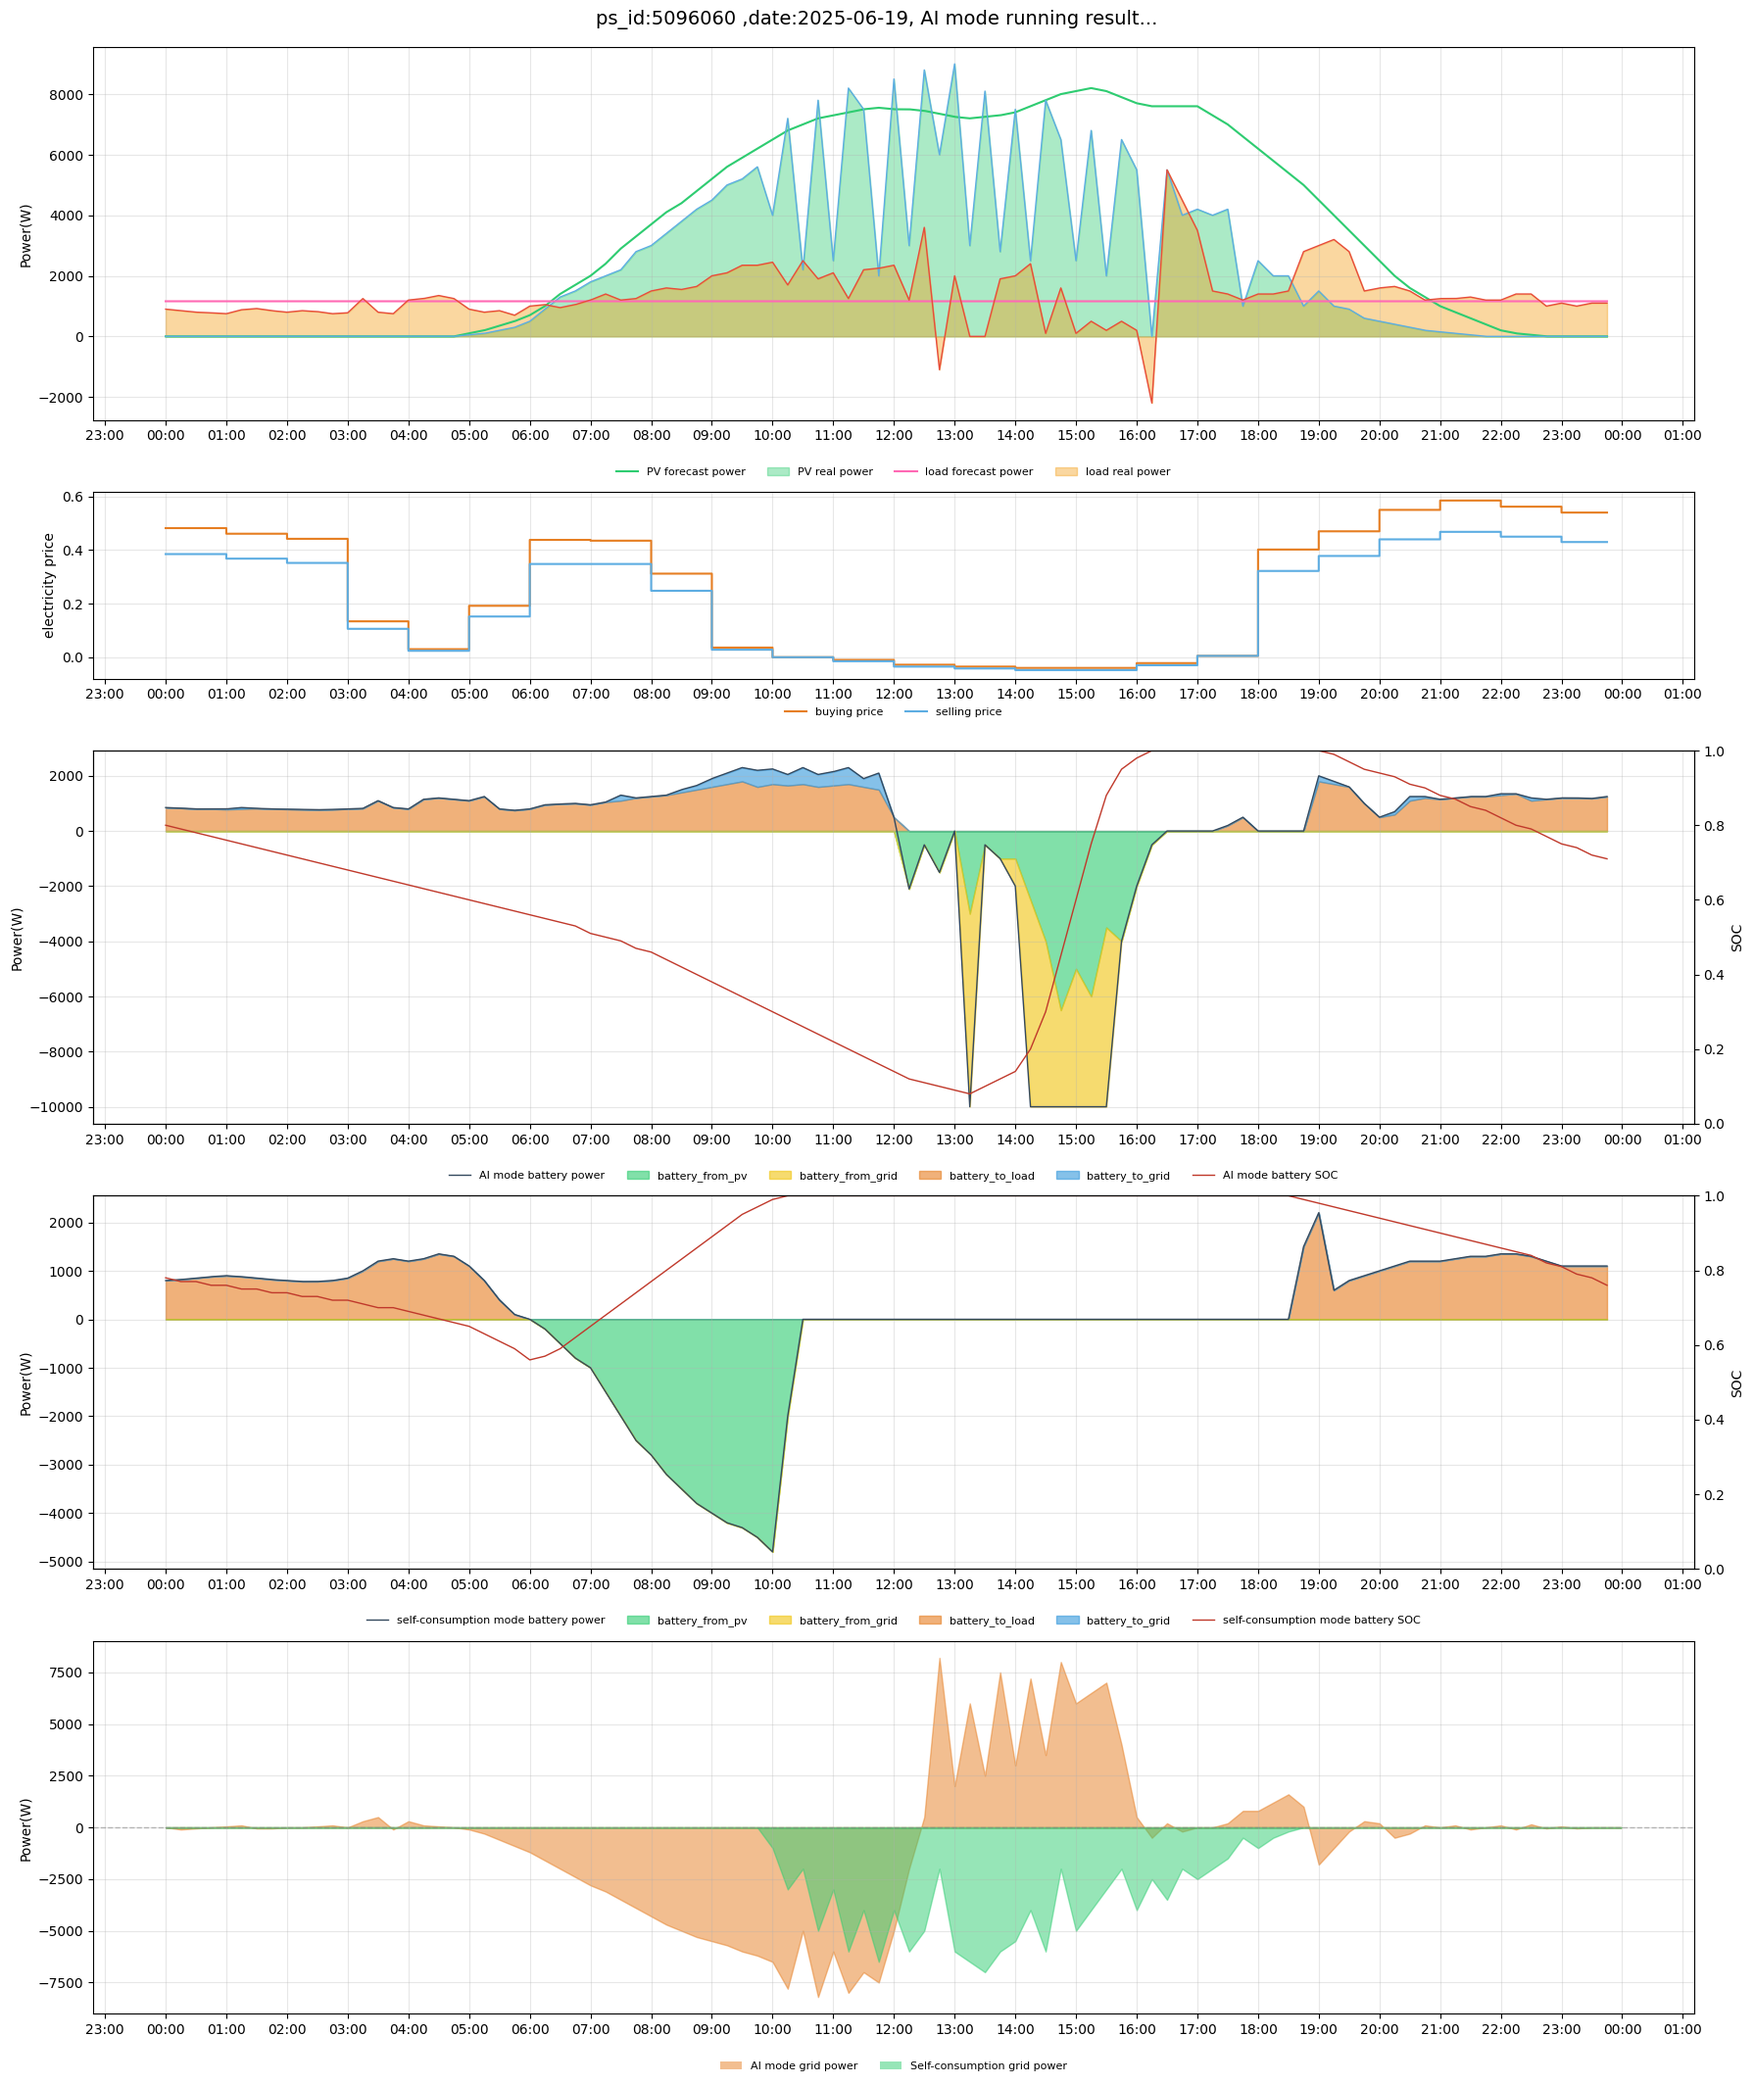
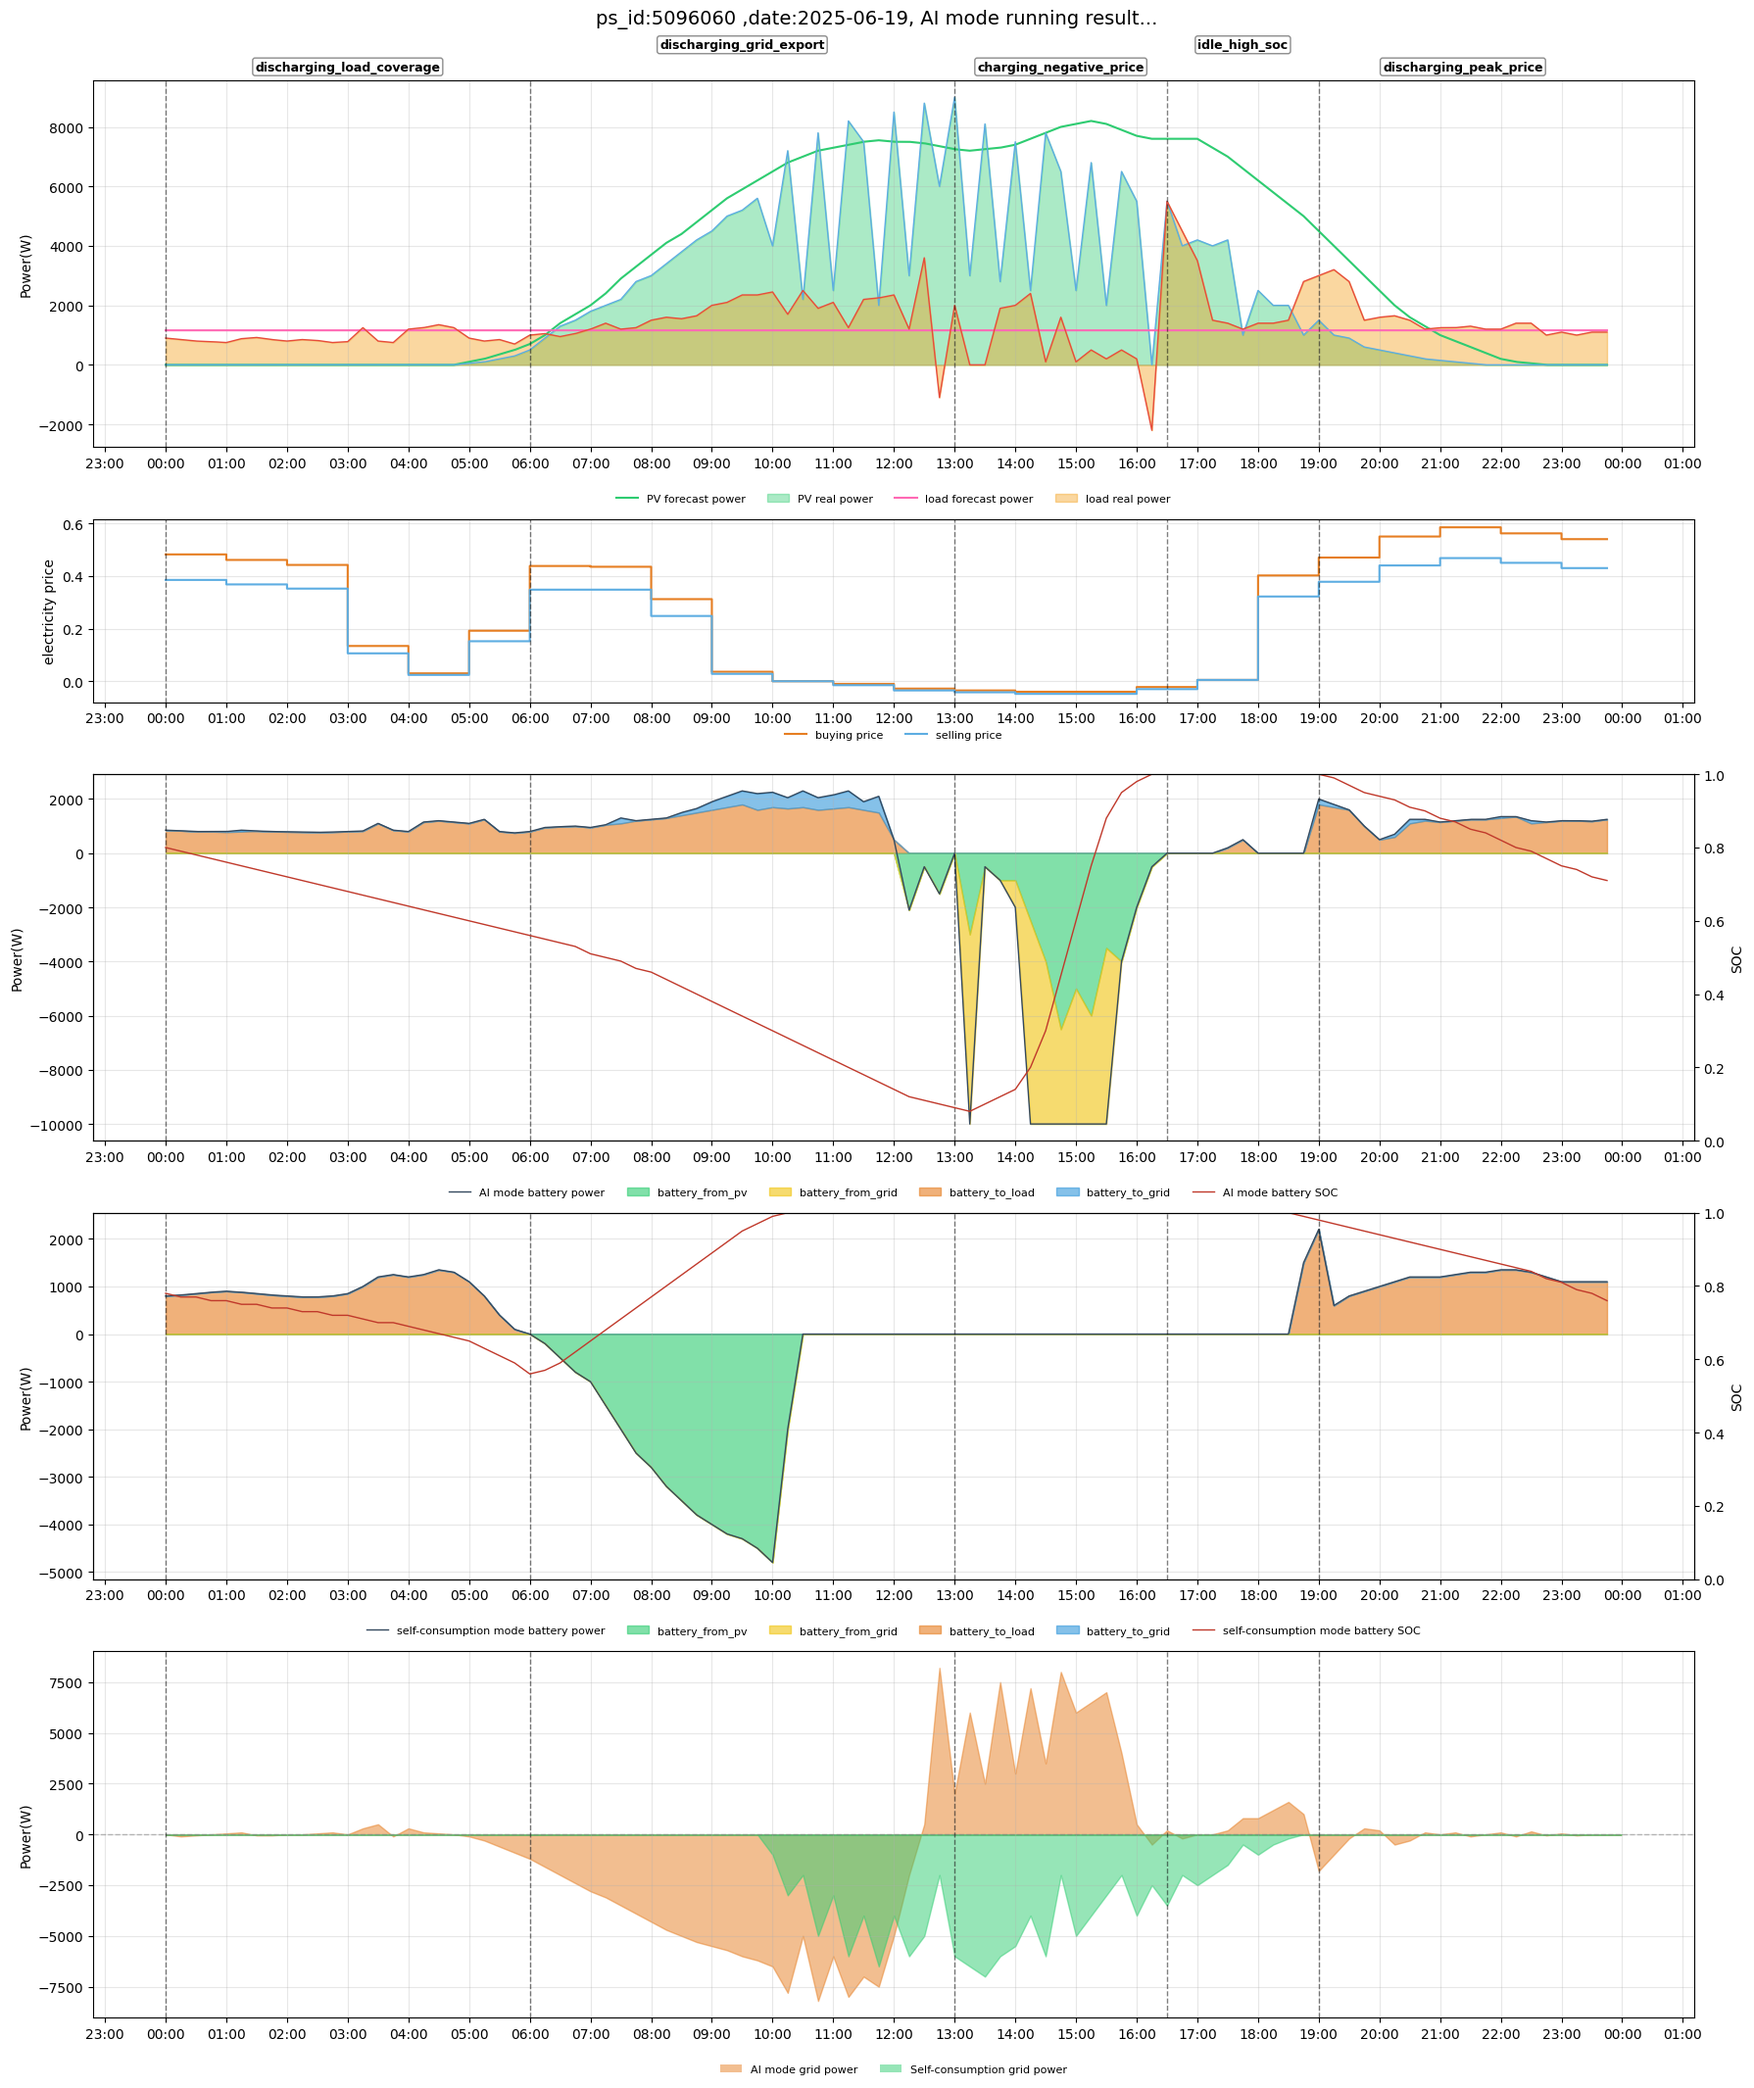
update graph with segments

diff --git a/utils/draw.py b/utils/draw.py
@@ -10,7 +10,7 @@ import glob
 class Drawer:
     
     @staticmethod
-    def draw_combined_chart(json_data, output_path='combined_chart.png'):
+    def draw_combined_chart(json_data, output_path='combined_chart.png', segments=None):
         """
         Draws all figures in one graph (subplots) based on the provided JSON data.
         """
@@ -66,6 +66,8 @@ class Drawer:
         Drawer._plot_battery(ax_self, df_self, "self-consumption mode", ax_pv)
         Drawer._plot_grid_comparison(ax_grid, df_grid_r)
 
+        if segments:
+            Drawer._plot_segments([ax_pv, ax_price, ax_ai, ax_self, ax_grid], segments, base_date)
 
         # 5. Global Formatting
         fig.suptitle(f"ps_id:{data.get('ps_id','N/A')} ,date:{base_date_str}, AI mode running result...", fontsize=14, y=0.995)
@@ -77,6 +79,56 @@ class Drawer:
         plt.tight_layout()
         plt.savefig(output_path, bbox_inches='tight')
         print(f"Chart saved to {output_path}")
+
+    @staticmethod
+    def _plot_segments(axes, segments, base_date):
+        if not segments: return
+        
+        for i, seg in enumerate(segments):
+            start_str = seg.get('start_time')
+            end_str = seg.get('end_time')
+            
+            # Fallback: parse from time_period if start/end are missing
+            if not start_str or not end_str:
+                tp = seg.get('time_period', '')
+                if ' - ' in tp:
+                    parts = tp.split(' - ')
+                    if len(parts) == 2:
+                        start_str = parts[0].strip()
+                        end_str = parts[1].strip()
+            
+            if not start_str or not end_str:
+                continue
+
+            p_type = seg.get('period_type', 'N/A')
+            
+            try:
+                t_start = datetime.combine(base_date, datetime.strptime(start_str, "%H:%M").time())
+                t_end = datetime.combine(base_date, datetime.strptime(end_str, "%H:%M").time())
+                
+                if t_end <= t_start:
+                     if end_str == "00:00":
+                         t_end += timedelta(days=1)
+                
+                # Draw vertical dashed lines on all subplots
+                for ax in axes:
+                    ax.axvline(x=t_start, color='k', linestyle='--', linewidth=1, alpha=0.5)
+                    # ax.axvline(x=t_end, color='k', linestyle='--', linewidth=0.5, alpha=0.3)
+                
+                # Add label on the top subplot
+                ax_top = axes[0]
+                mid_time = t_start + (t_end - t_start) / 2
+                
+                # Alternate vertical position to avoid overlap
+                trans = ax_top.get_xaxis_transform()
+                y_pos = 1.02 + (0.06 * (i % 2))
+                
+                ax_top.text(mid_time, y_pos, p_type, transform=trans,
+                            ha='center', va='bottom', fontsize=9, fontweight='bold',
+                            bbox=dict(boxstyle="round,pad=0.2", fc="white", ec="gray", alpha=0.9))
+                            
+            except Exception as e:
+                print(f"Error drawing segment {seg}: {e}")
 
     @staticmethod
     def _prepare_pv_load(data, base_date):
@@ -303,15 +355,23 @@ if __name__ == "__main__":
                         name = os.path.splitext(os.path.basename(fp))[0]
                         out_path = os.path.join(output_dir, f"{name}.png")
 
-                        if os.path.exists(out_path):
-                            print(f"Skipping {fp}, output already exists at {out_path}")
-                            continue
-
                         with open(fp, 'r', encoding='utf-8') as f:
                             data = json.load(f)
                         
+                        # Try to load segments
+                        segments = None
+                        seg_path = os.path.join(base_dir, "../series_input", f"{name}.json")
+                        if os.path.exists(seg_path):
+                            try:
+                                with open(seg_path, 'r', encoding='utf-8') as f_seg:
+                                    seg_data = json.load(f_seg)
+                                    segments = seg_data.get('segments', [])
+                                    print(f"  Loaded {len(segments)} segments from {seg_path}")
+                            except Exception as e:
+                                print(f"  Error loading segments: {e}")
+
                         print(f"Processing {fp} -> {out_path}")
-                        Drawer.draw_combined_chart(data, output_path=out_path)
+                        Drawer.draw_combined_chart(data, output_path=out_path, segments=segments)
                     except Exception as e:
                         print(f"Failed processing {fp}: {e}")
     except Exception as e:

diff --git a/utils/transfer.py b/utils/transfer.py
@@ -83,6 +83,8 @@ class Transfer:
             }
 
             segment_data = {
+                "start_time": seg['start_time'],
+                "end_time": seg['end_time'],
                 "time_period": f"{seg['start_time']} - {seg['end_time']}",
                 "period_type": seg['period_type'],
                 "descriptions": descriptions_data, # PV/Load, Price descriptions with stats
